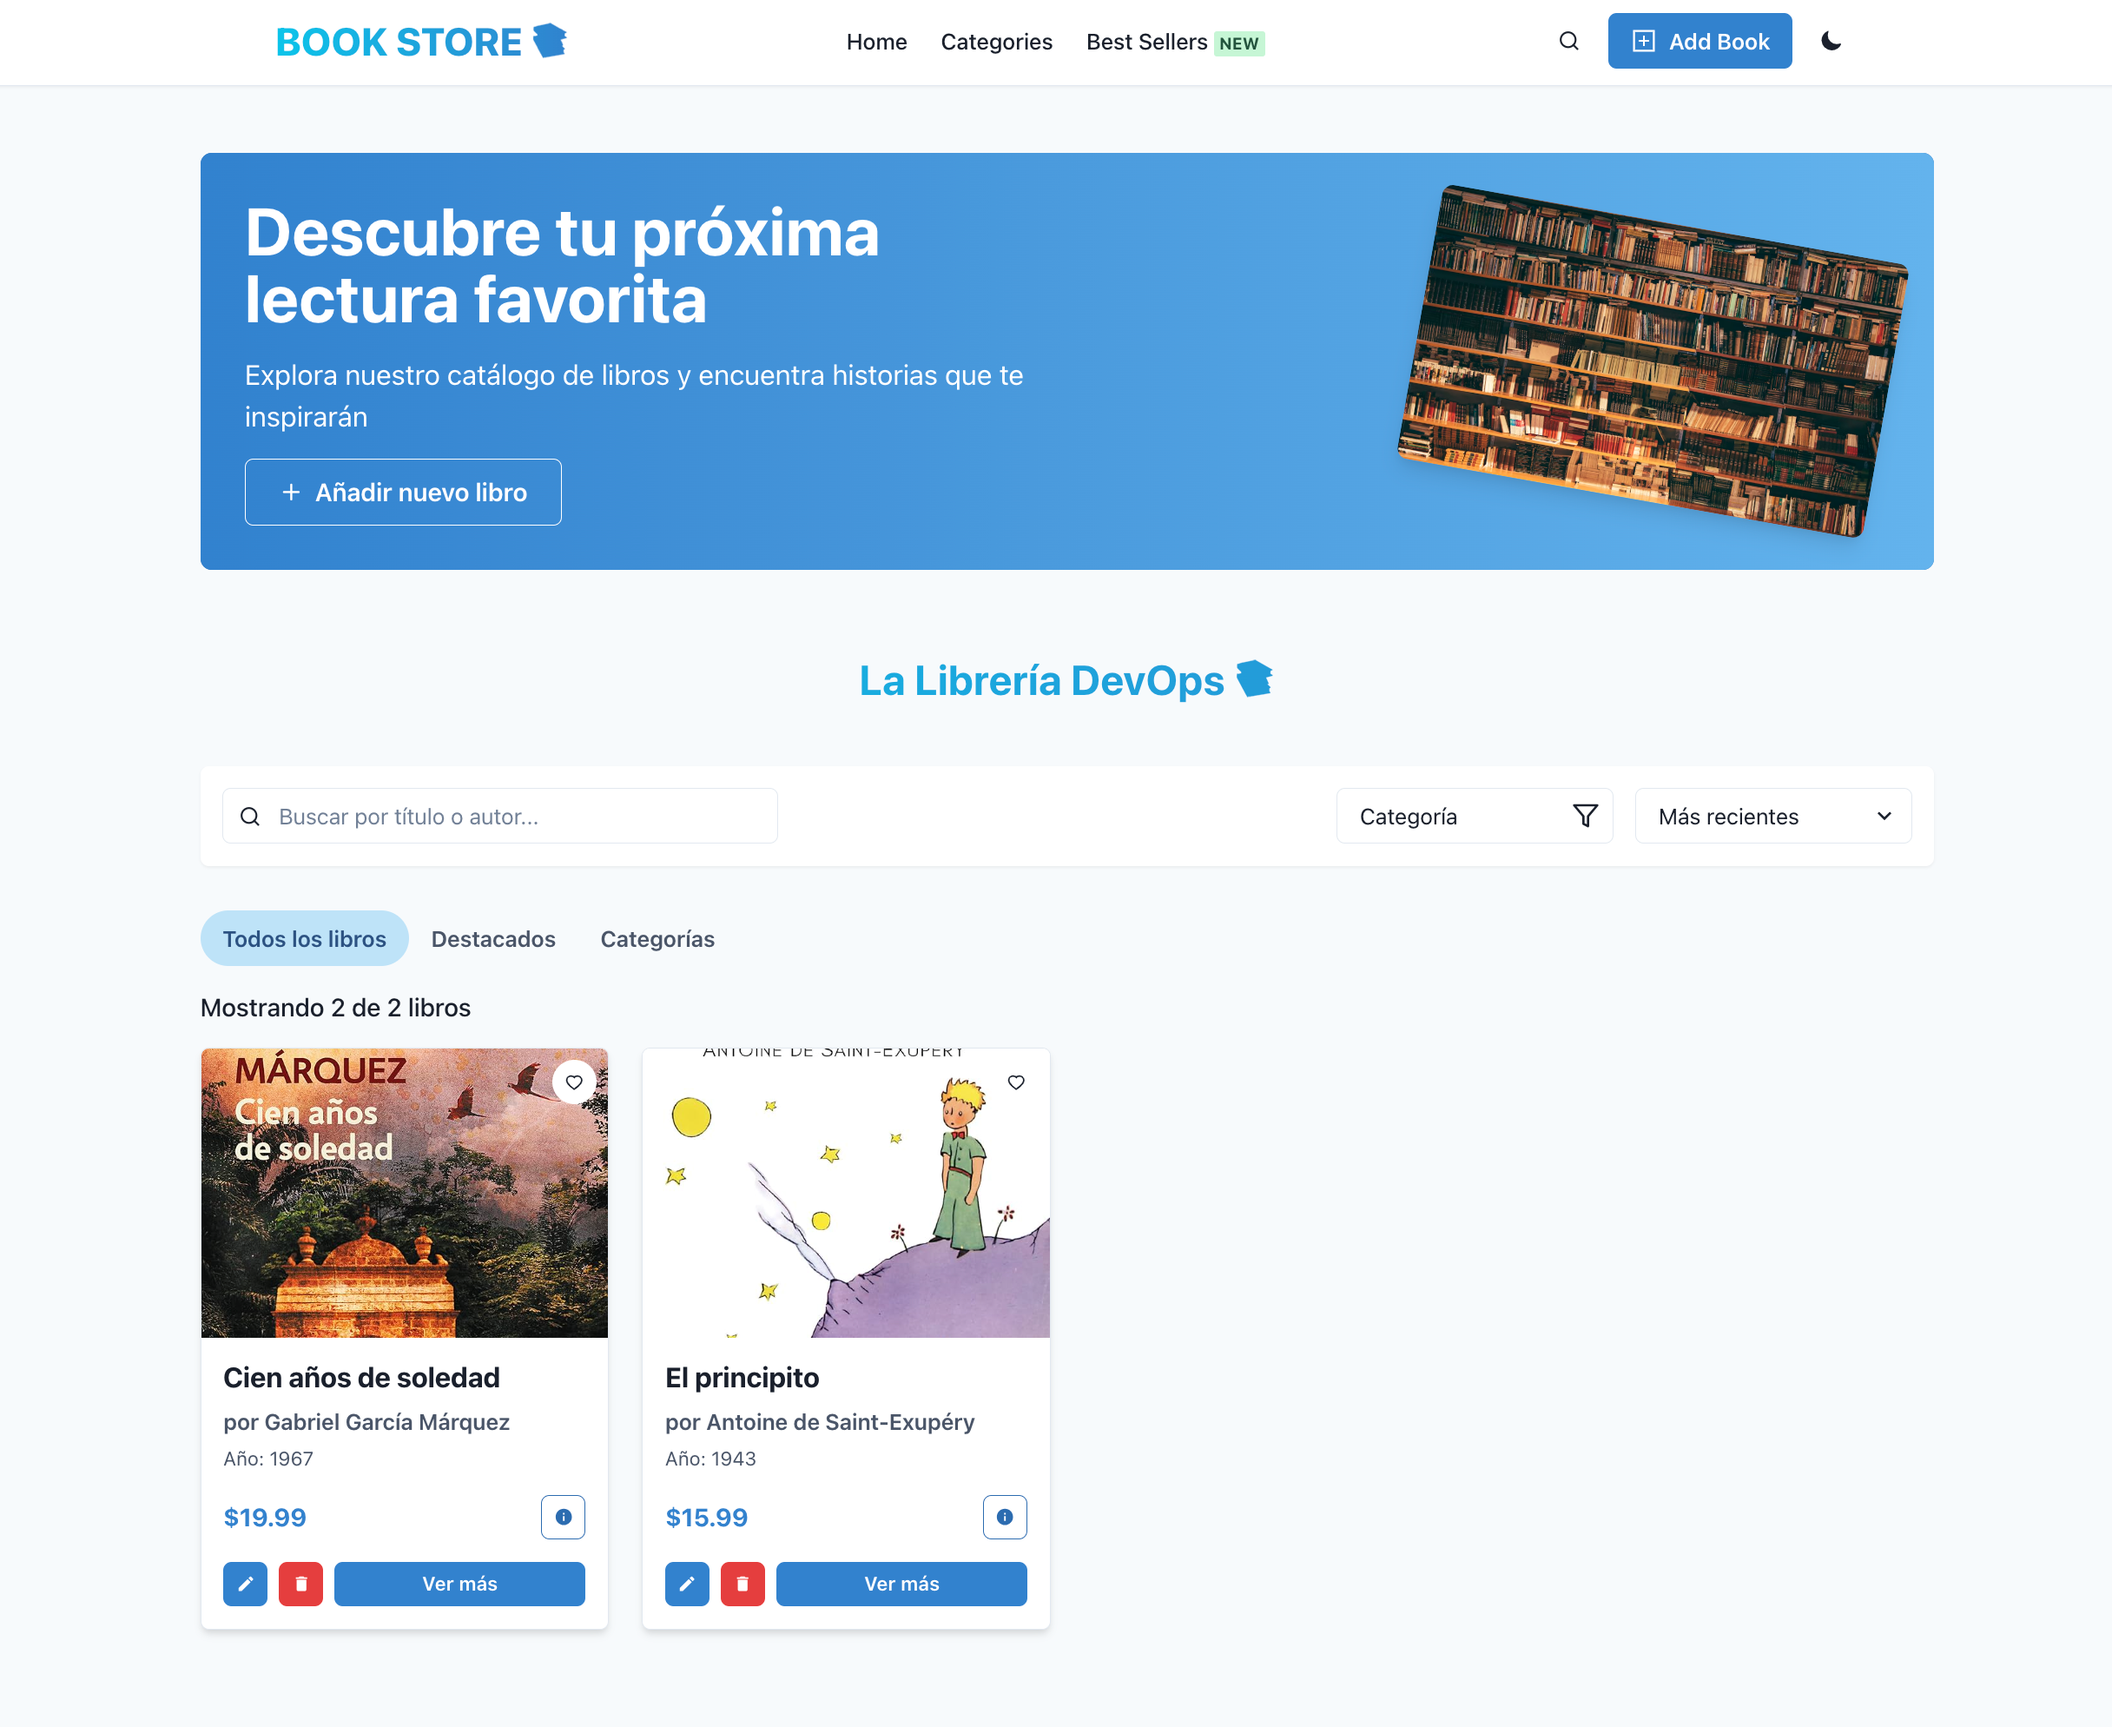
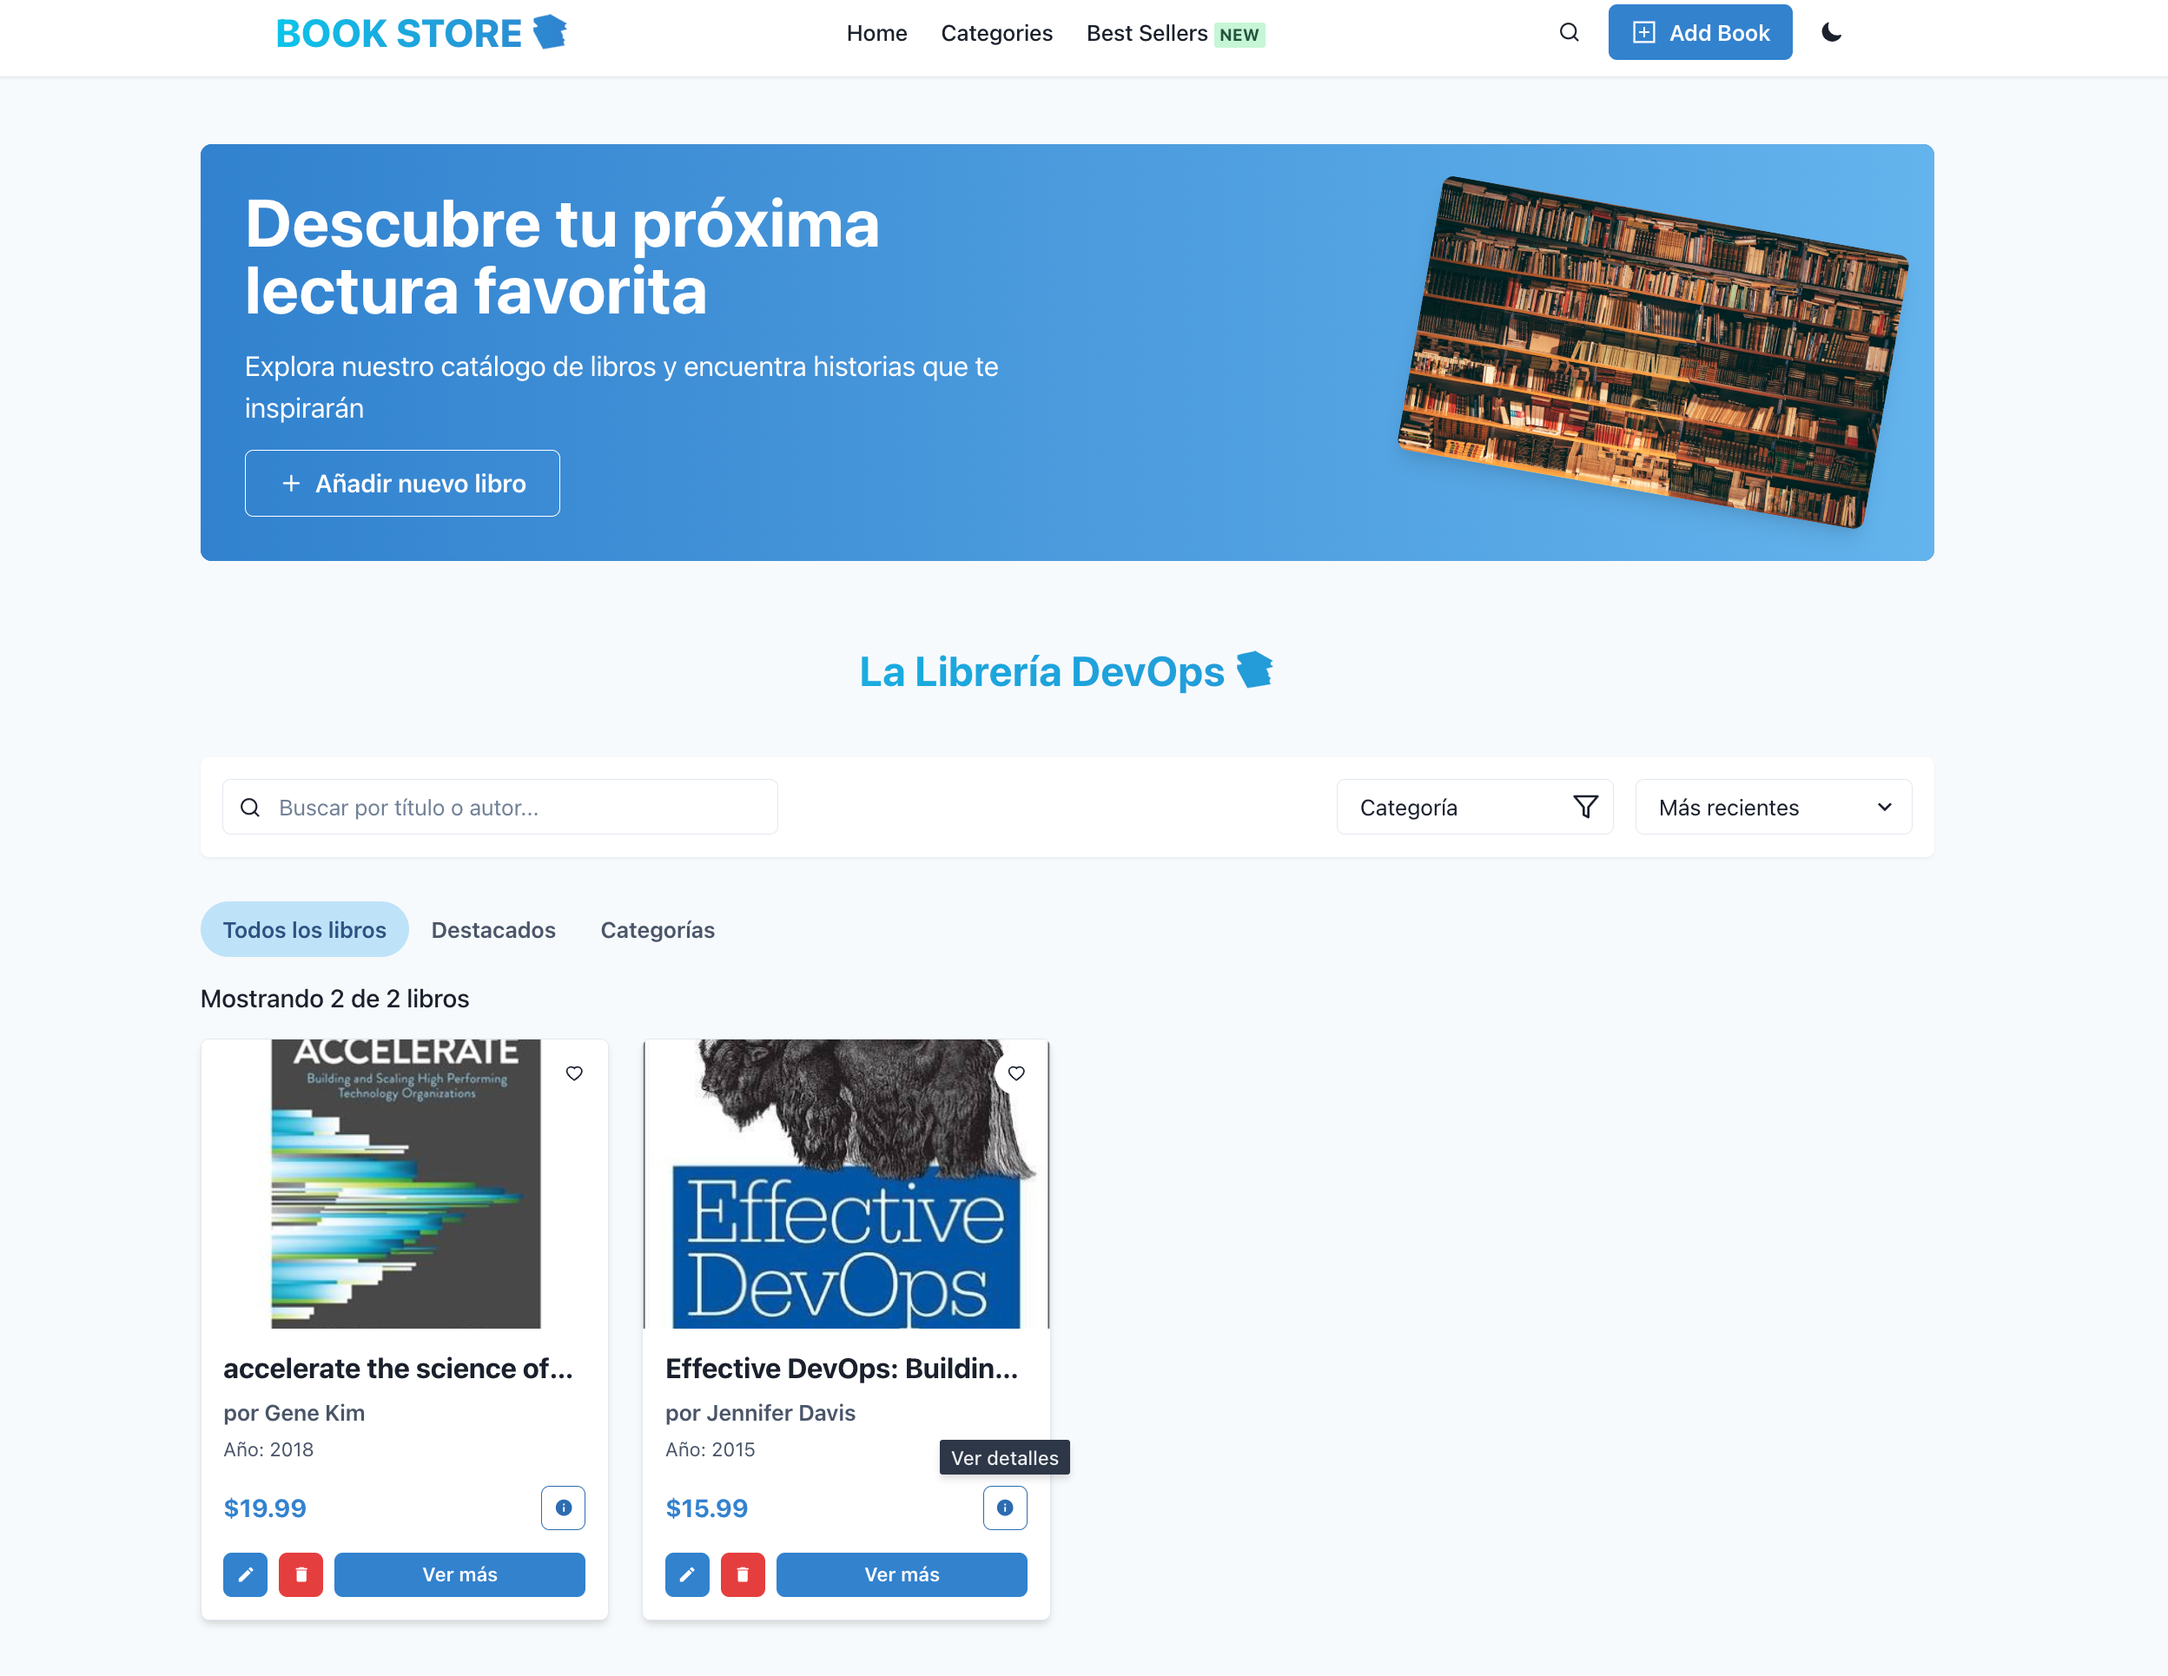
update

diff --git a/mongo/00-create-user.js b/mongo/00-create-user.js
@@ -1,0 +1,22 @@
+db = db.getSiblingDB('bookstore');
+
+db.createCollection('books');
+
+db.books.insertMany([
+  {
+    title: "Effective DevOps",
+    author: "Jennifer Davis",
+    publishYear: 2015,
+    price: 15.99,
+    image: "https://images-na.ssl-images-amazon.com/images/S/compressed.photo.goodreads.com/books/1441679000i/25602743.jpg"
+  },
+  {
+    title: "Accelerate",
+    author: "Gene Kim",
+    publishYear: 2018,
+    price: 19.99,
+    image: "https://static.fnac-static.com/multimedia/Images/PT/NR/0e/40/29/2703374/1540-1.jpg"
+  }
+]);
+
+console.log("MongoDB initialized with sample data!");
